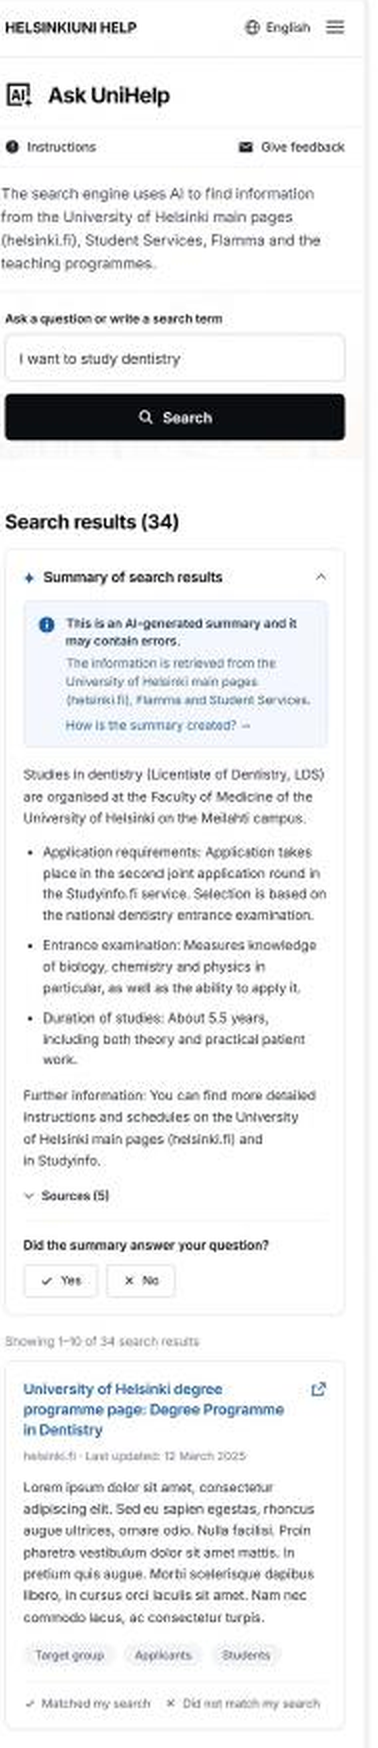
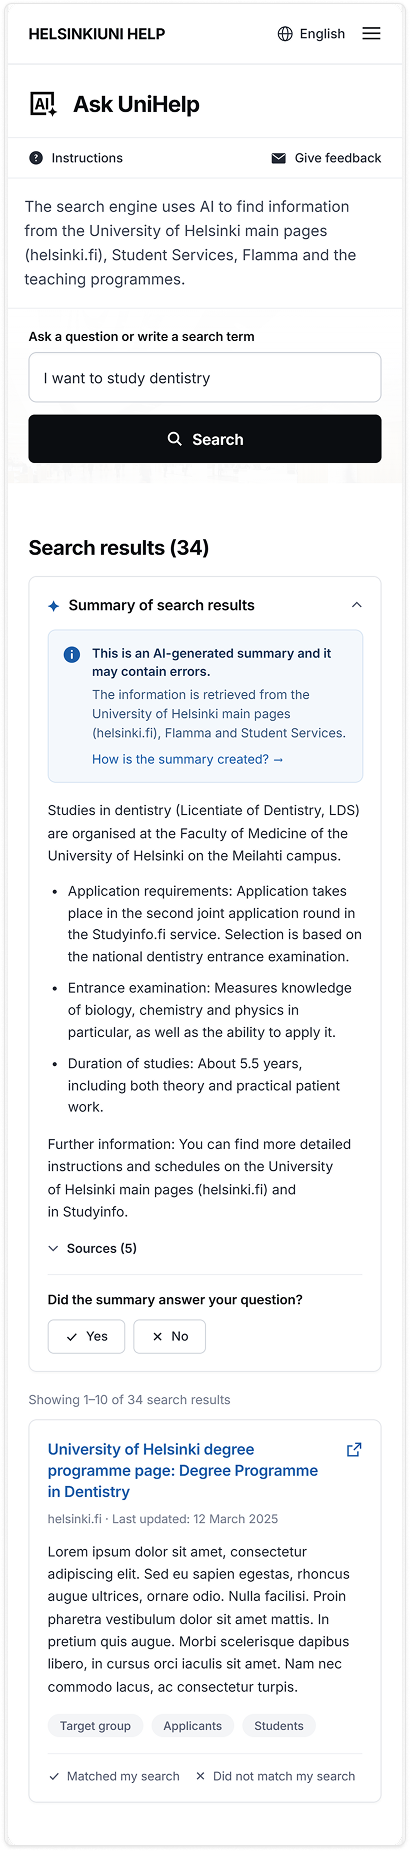
Replace and expand case study gallery images
University Digital Onboarding: swap in clearer screenshots for the
existing desktop hero and both mobile views, and add a new desktop
"AI search results" screen.

National Education Administration: swap in clearer screenshots for
the existing student detail and mobile views, add new desktop
timetable/course-offering screens (read and edit states), and lead
the gallery with the teacher home dashboard (desktop + mobile).

Claude-Session: https://claude.ai/code/session_01Staqqn1HDpdiJGznun29di

diff --git a/portfolio-homepage/src/data/case-studies/education-platform.ts b/portfolio-homepage/src/data/case-studies/education-platform.ts
@@ -19,20 +19,48 @@ export const educationPlatform: CaseStudy = {
   focusLabel: "Service design, Design Systems, and cross-team design consistency across a multi-vendor public sector platform",
 
   gallery: [
-    { src: "/case/edu-detail.png", alt: "Student administration detail view", caption: "Student details", width: 1208, height: 1512 },
+    {
+      src: "/case/edu-dashboard.png",
+      alt: "Teacher home dashboard",
+      caption: "Teacher dashboard",
+      width: 2000,
+      height: 1899,
+    },
+    {
+      src: "/case/edu-mobile-dashboard.png",
+      alt: "Teacher home dashboard, mobile",
+      caption: "Mobile dashboard",
+      width: 339,
+      height: 2000,
+    },
+    { src: "/case/edu-detail.png", alt: "Student administration detail view", caption: "Student details", width: 553, height: 731 },
+    {
+      src: "/case/edu-timetable.png",
+      alt: "Timetable and course offering view",
+      caption: "Timetable",
+      width: 553,
+      height: 623,
+    },
+    {
+      src: "/case/edu-timetable-edit.png",
+      alt: "Timetable and course offering, editing selections",
+      caption: "Editing selections",
+      width: 553,
+      height: 623,
+    },
     {
       src: "/case/edu-mobile-detail.png",
       alt: "Student administration detail, mobile",
       caption: "Mobile detail",
-      width: 596,
-      height: 3036,
+      width: 369,
+      height: 2000,
     },
     {
       src: "/case/edu-mobile-menu.png",
       alt: "Student tabs menu, mobile",
       caption: "Mobile menu",
-      width: 564,
-      height: 1096,
+      width: 410,
+      height: 791,
     },
   ],
 

diff --git a/portfolio-homepage/src/data/case-studies/university-ai-tool.ts b/portfolio-homepage/src/data/case-studies/university-ai-tool.ts
@@ -19,14 +19,21 @@ export const universityAiTool: CaseStudy = {
   focusLabel: "UX/UI Design, AI search flow, service architecture, Design System adoption, post-launch iteration",
 
   gallery: [
-    { src: "/case/uni-homepage.png", alt: "AI assistant homepage", caption: "AI assistant", width: 1052, height: 1568 },
-    { src: "/case/uni-mobile-home.png", alt: "AI assistant, mobile", caption: "Mobile home", width: 386, height: 2128 },
+    { src: "/case/uni-homepage.png", alt: "AI assistant homepage", caption: "AI assistant", width: 1332, height: 2000 },
+    {
+      src: "/case/uni-search-results.png",
+      alt: "AI search results, desktop",
+      caption: "AI search results",
+      width: 1904,
+      height: 2000,
+    },
+    { src: "/case/uni-mobile-home.png", alt: "AI assistant, mobile", caption: "Mobile home", width: 369, height: 2000 },
     {
       src: "/case/uni-mobile-search.png",
       alt: "AI search results, mobile",
       caption: "Mobile search",
-      width: 378,
-      height: 1748,
+      width: 410,
+      height: 1851,
     },
   ],
 
